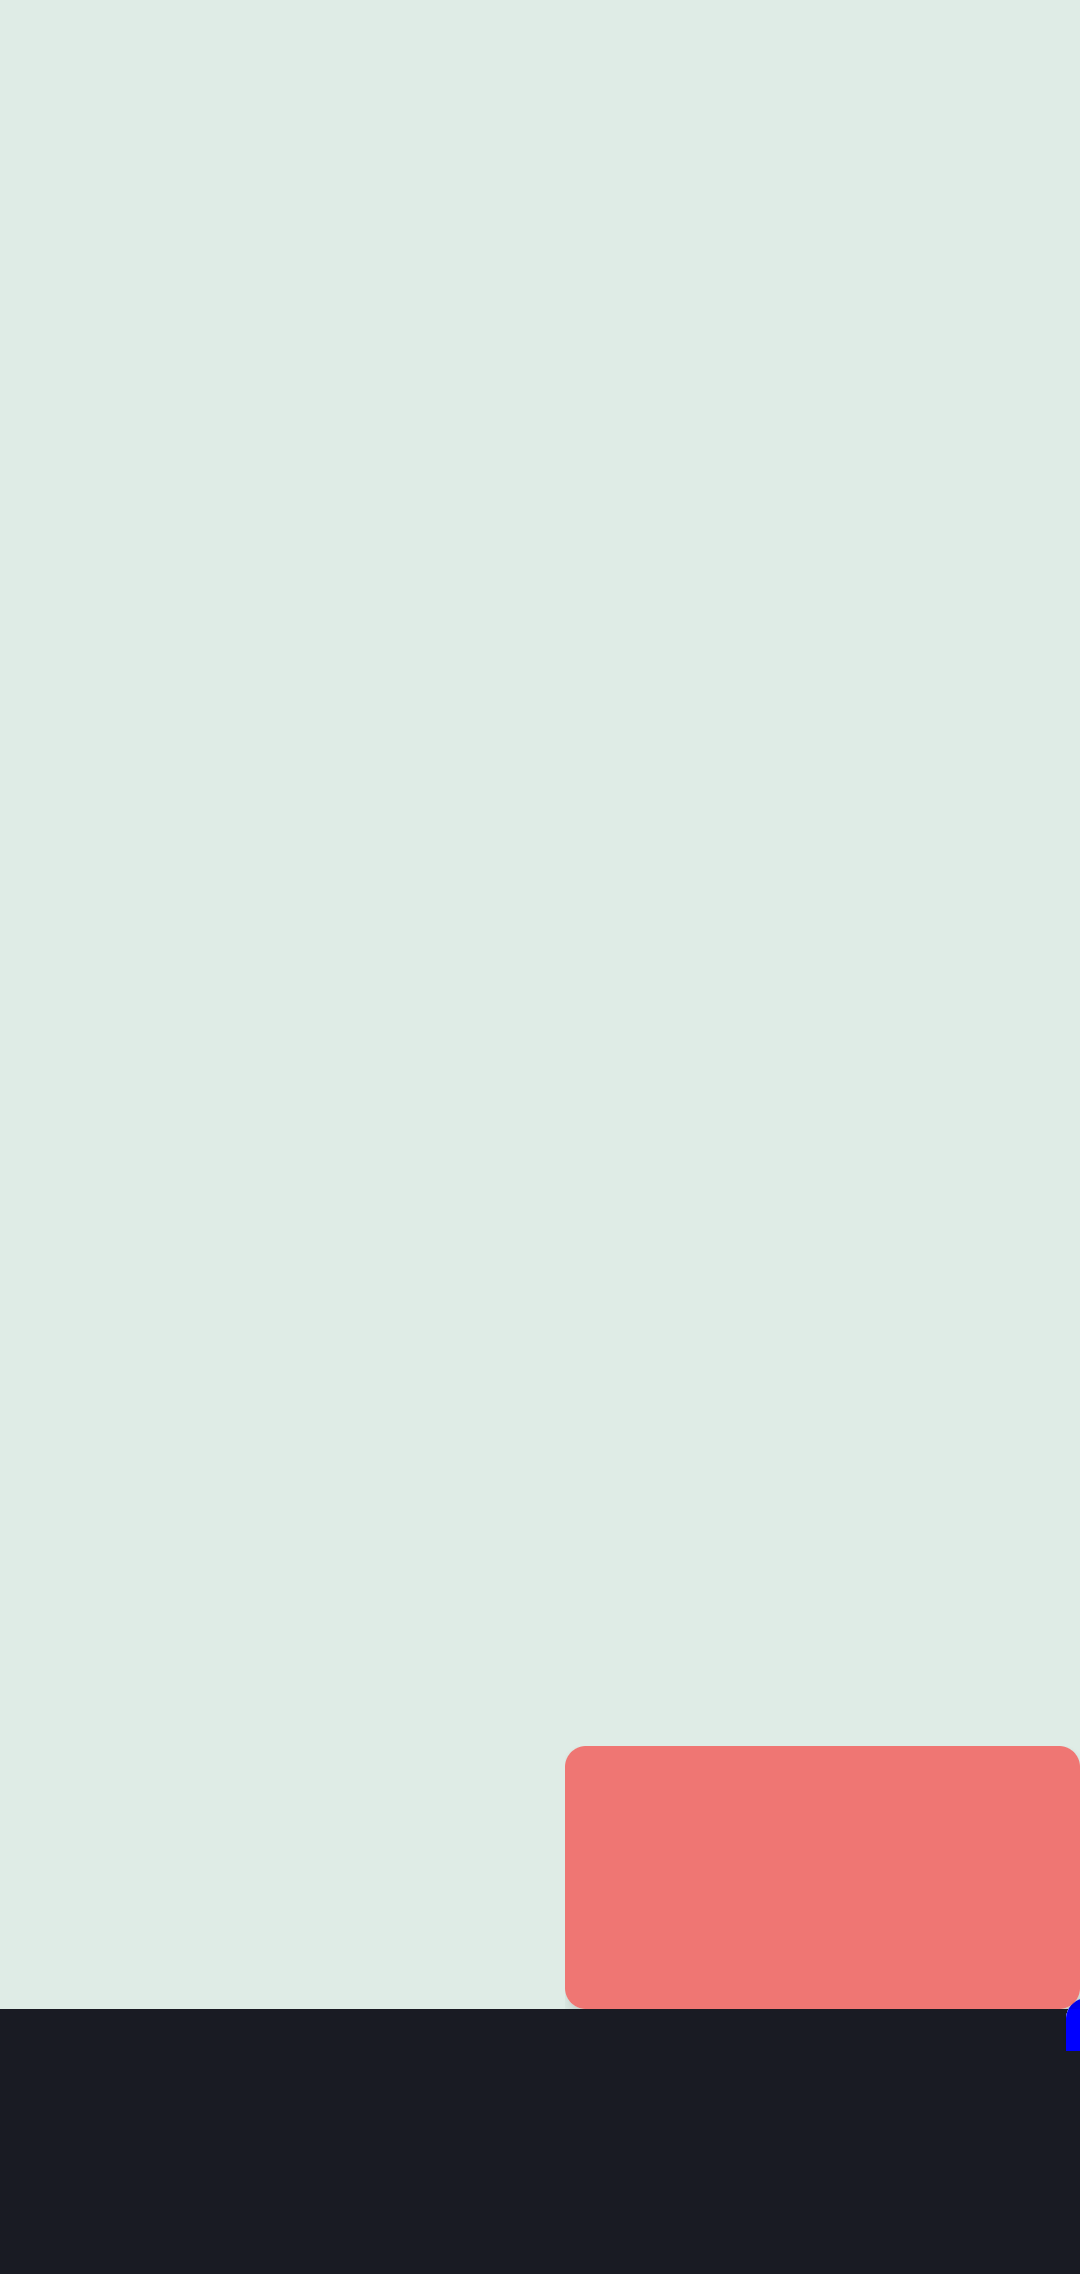
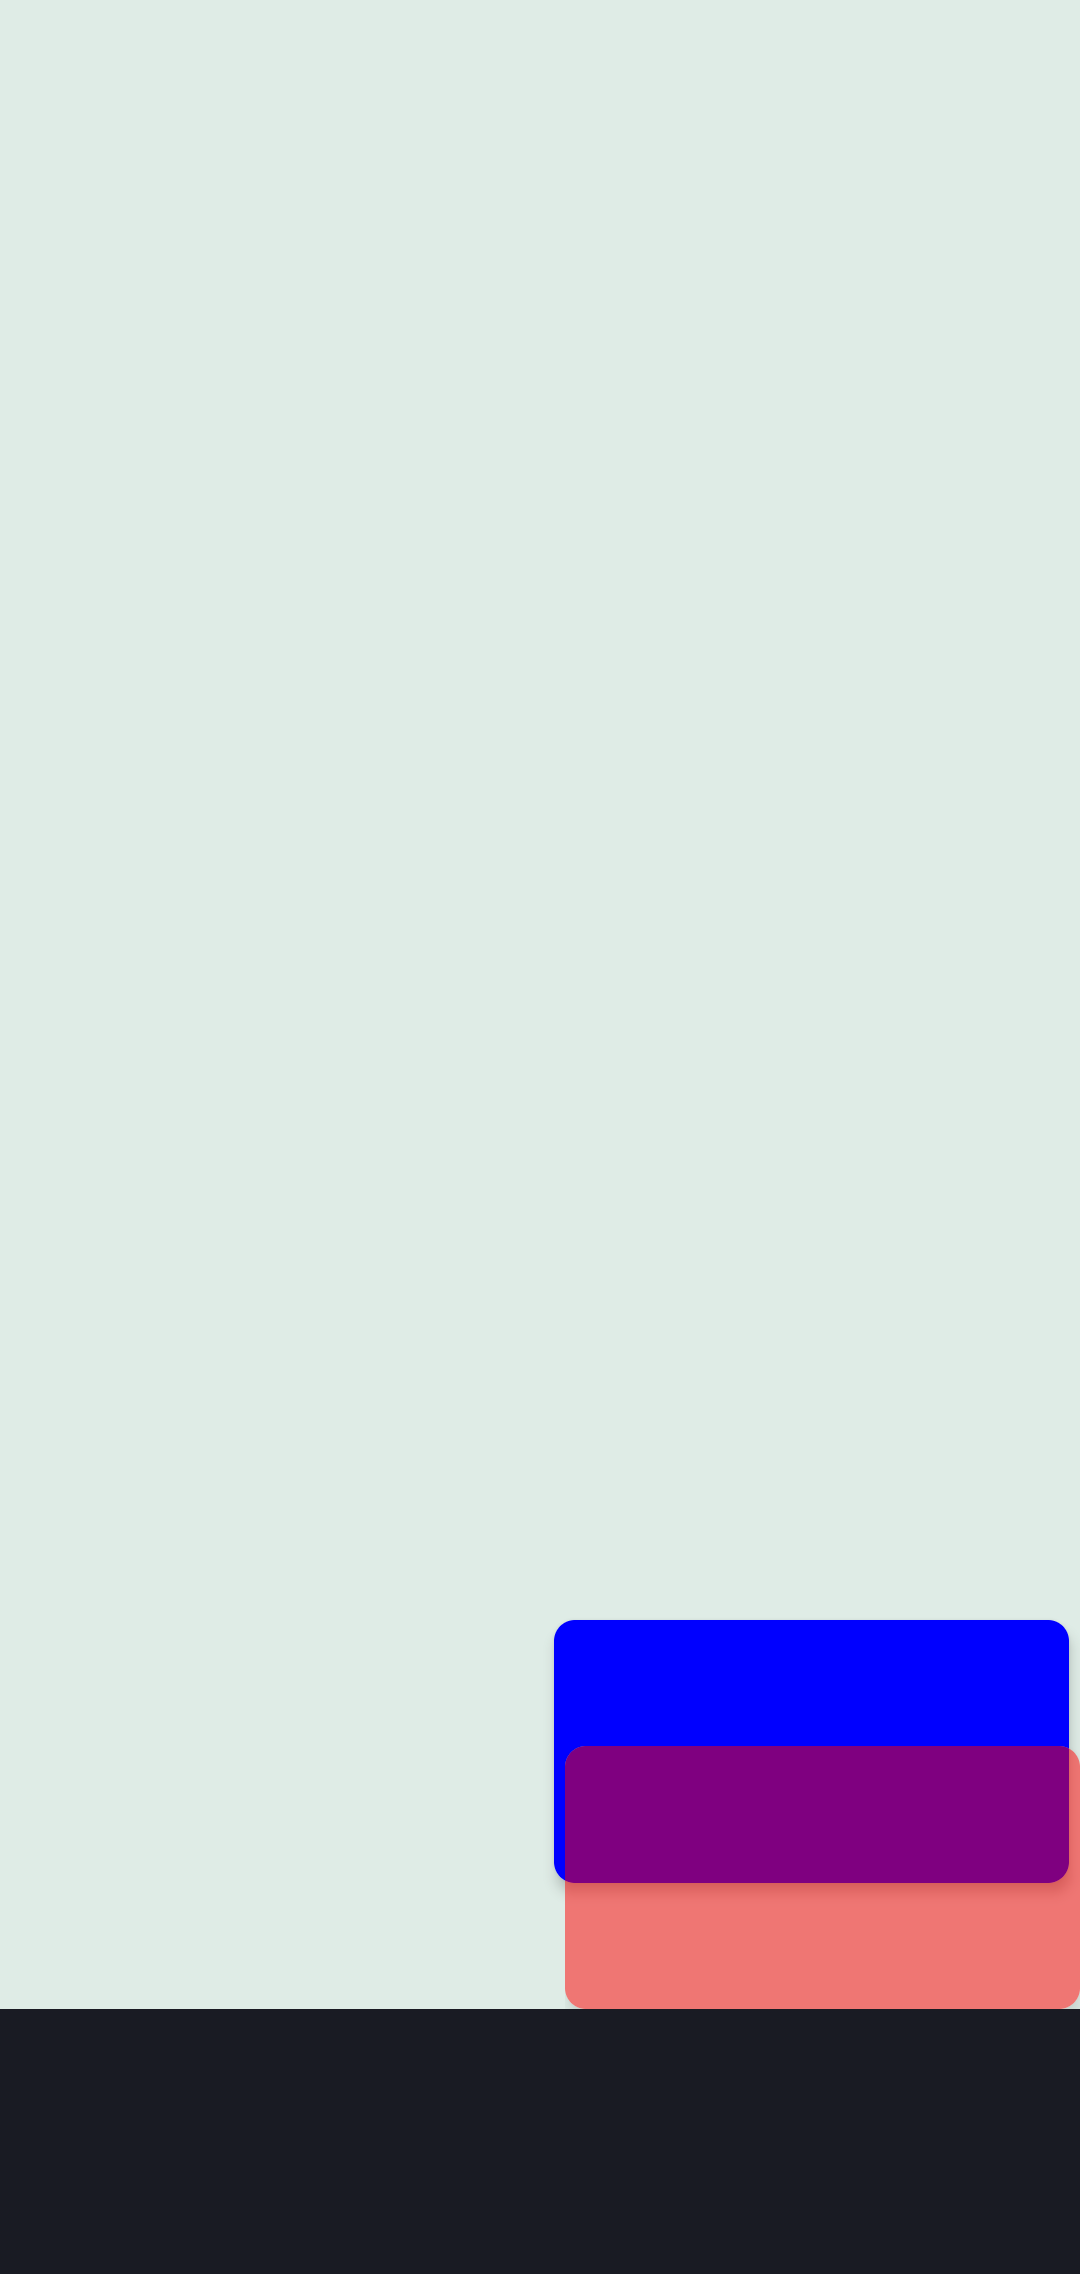
Fix positioning of popup when window has FLAG_LAYOUT_NO_LIMITS

Changed region(s): [[0.4889, 0.6869, 1.0, 0.843], [0.9778, 0.8742, 1.0, 0.9055]]

diff --git a/cascade-compose/src/main/java/me/saket/cascade/internal/PositionPopupContent.kt b/cascade-compose/src/main/java/me/saket/cascade/internal/PositionPopupContent.kt
@@ -1,6 +1,5 @@
 package me.saket.cascade.internal
 
-import android.view.View
 import androidx.compose.foundation.layout.Box
 import androidx.compose.foundation.layout.absoluteOffset
 import androidx.compose.runtime.Composable
@@ -20,36 +19,33 @@ import androidx.compose.ui.unit.IntSize
 import androidx.compose.ui.unit.round
 import androidx.compose.ui.unit.toOffset
 import androidx.compose.ui.window.PopupPositionProvider
+import kotlin.math.roundToInt
 
 @Composable
 internal fun PositionPopupContent(
   modifier: Modifier = Modifier,
   positionProvider: PopupPositionProvider,
   anchorBounds: ScreenRelativeBounds?,
-  anchorView: View,
   content: @Composable () -> Unit
 ) {
   val popupView = LocalView.current
   val layoutDirection = LocalLayoutDirection.current
-
   var contentPosition: IntOffset? by remember { mutableStateOf(null) }
-  val rectBuffer = remember { android.graphics.Rect(0, 0, 0, 0) }
 
   Box(modifier) {
     Box(
       Modifier
         .onGloballyPositioned { coordinates ->
-          val anchorWindowSizeWithInsets = run {
-            anchorView.getWindowVisibleDisplayFrame(rectBuffer)
-            IntSize(width = rectBuffer.width(), height = rectBuffer.height())
-          }
           val popupContentBounds = ScreenRelativeBounds(coordinates, owner = popupView)
 
           if (anchorBounds != null) {
             contentPosition = positionProvider
               .calculatePosition(
                 anchorBounds = anchorBounds.boundsInRoot.roundToIntRect(),
-                windowSize = anchorWindowSizeWithInsets,
+                // material3 uses View#getWindowVisibleDisplayFrame() for calculating window size,
+                // but that produces infinite-like values for windows that have FLAG_LAYOUT_NO_LIMITS set.
+                // material3 ends up looking okay because WindowManager sanitizes bad values.
+                windowSize = anchorBounds.root.layoutBoundsInWindow.intSize(),
                 layoutDirection = layoutDirection,
                 popupContentSize = coordinates.size,
               )
@@ -59,7 +55,7 @@ internal fun PositionPopupContent(
                 // position to use it inside the popup's window.
                 val positionInAnchorWindow = ScreenRelativeOffset(
                   positionInRoot = position.toOffset(),
-                  rootOffsetFromScreen = anchorBounds.rootOffsetFromScreen
+                  root = anchorBounds.root
                 )
                 positionInAnchorWindow
                   .positionInWindowOf(popupContentBounds)
@@ -78,4 +74,8 @@ internal fun PositionPopupContent(
 
 private fun Rect.roundToIntRect(): IntRect {
   return IntRect(topLeft = topLeft.round(), bottomRight = bottomRight.round())
+}
+
+private fun Rect.intSize(): IntSize {
+  return IntSize(width = width.roundToInt(), height = height.roundToInt())
 }

diff --git a/cascade-compose/src/main/java/me/saket/cascade/internal/ScreenRelativeBounds.kt b/cascade-compose/src/main/java/me/saket/cascade/internal/ScreenRelativeBounds.kt
@@ -5,33 +5,35 @@ import androidx.compose.runtime.Immutable
 import androidx.compose.ui.geometry.Offset
 import androidx.compose.ui.geometry.Rect
 import androidx.compose.ui.layout.LayoutCoordinates
+import androidx.compose.ui.layout.boundsInWindow
 import androidx.compose.ui.layout.findRootCoordinates
-import androidx.compose.ui.layout.positionInWindow
 
 @Immutable
 internal data class ScreenRelativeBounds(
   val boundsInRoot: Rect,
-  val rootOffsetFromScreen: RootLayoutOffsetFromScreen,
+  val root: RootLayoutCoordinatesInfo,
 )
 
 @Immutable
 internal data class ScreenRelativeOffset(
   val positionInRoot: Offset,
-  val rootOffsetFromScreen: RootLayoutOffsetFromScreen,
+  val root: RootLayoutCoordinatesInfo,
 )
 
 @Immutable
-internal data class RootLayoutOffsetFromScreen(
-  val rootLayoutPositionInWindow: Offset,
+internal data class RootLayoutCoordinatesInfo(
+  val layoutBoundsInWindow: Rect,
   val windowPositionOnScreen: Offset,
-)
+) {
+  val layoutPositionInWindow: Offset get() = layoutBoundsInWindow.topLeft
+}
 
 internal fun ScreenRelativeBounds(coordinates: LayoutCoordinates, owner: View): ScreenRelativeBounds {
   return coordinates.findRootCoordinates().let { rootCoordinates ->
     ScreenRelativeBounds(
       boundsInRoot = rootCoordinates.localBoundingBoxOf(coordinates),
-      rootOffsetFromScreen = RootLayoutOffsetFromScreen(
-        rootLayoutPositionInWindow = rootCoordinates.positionInWindow(),
+      root = RootLayoutCoordinatesInfo(
+        layoutBoundsInWindow = rootCoordinates.boundsInWindow(),
         windowPositionOnScreen = run {
           owner.rootView.getLocationOnScreen(intArrayBuffer)
           Offset(x = intArrayBuffer[0].toFloat(), y = intArrayBuffer[1].toFloat())
@@ -50,6 +52,6 @@ private val intArrayBuffer = IntArray(size = 2)
  * */
 internal fun ScreenRelativeOffset.positionInWindowOf(other: ScreenRelativeBounds): Offset {
   return positionInRoot -
-    (other.rootOffsetFromScreen.rootLayoutPositionInWindow - rootOffsetFromScreen.rootLayoutPositionInWindow) -
-    (other.rootOffsetFromScreen.windowPositionOnScreen - rootOffsetFromScreen.windowPositionOnScreen)
+    (other.root.layoutPositionInWindow - root.layoutPositionInWindow) -
+    (other.root.windowPositionOnScreen - root.windowPositionOnScreen)
 }

diff --git a/cascade-compose/src/test/java/me/saket/cascade/internal/ScreenRelativeOffsetTest.kt b/cascade-compose/src/test/java/me/saket/cascade/internal/ScreenRelativeOffsetTest.kt
@@ -9,15 +9,15 @@ class ScreenRelativeOffsetTest {
   @Test fun canary() {
     val first = ScreenRelativeOffset(
       positionInRoot = Offset(544f, 200f),
-      rootOffsetFromScreen = RootLayoutOffsetFromScreen(
-        rootLayoutPositionInWindow = Offset.Zero,
+      root = RootLayoutCoordinatesInfo(
+        layoutBoundsInWindow = Rect.Zero,
         windowPositionOnScreen = Offset.Zero
       )
     )
     val second = ScreenRelativeBounds(
       boundsInRoot = Rect(0f, 0f, 515f, 630f),
-      rootOffsetFromScreen = RootLayoutOffsetFromScreen(
-        rootLayoutPositionInWindow = Offset.Zero,
+      root = RootLayoutCoordinatesInfo(
+        layoutBoundsInWindow = Rect.Zero,
         windowPositionOnScreen = Offset(1f, 63f)
       )
     )

diff --git a/cascade-compose/src/main/java/me/saket/cascade/Cascade.kt b/cascade-compose/src/main/java/me/saket/cascade/Cascade.kt
@@ -164,8 +164,7 @@ fun CascadeDropdownMenu(
             clickableWithoutRipple(onClick = onDismissRequest)
           },
         positionProvider = popupPositionProvider,
-        anchorBounds = anchorBounds,
-        anchorView = anchorHostView
+        anchorBounds = anchorBounds
       ) {
         PopupContent(
           modifier = modifier,
